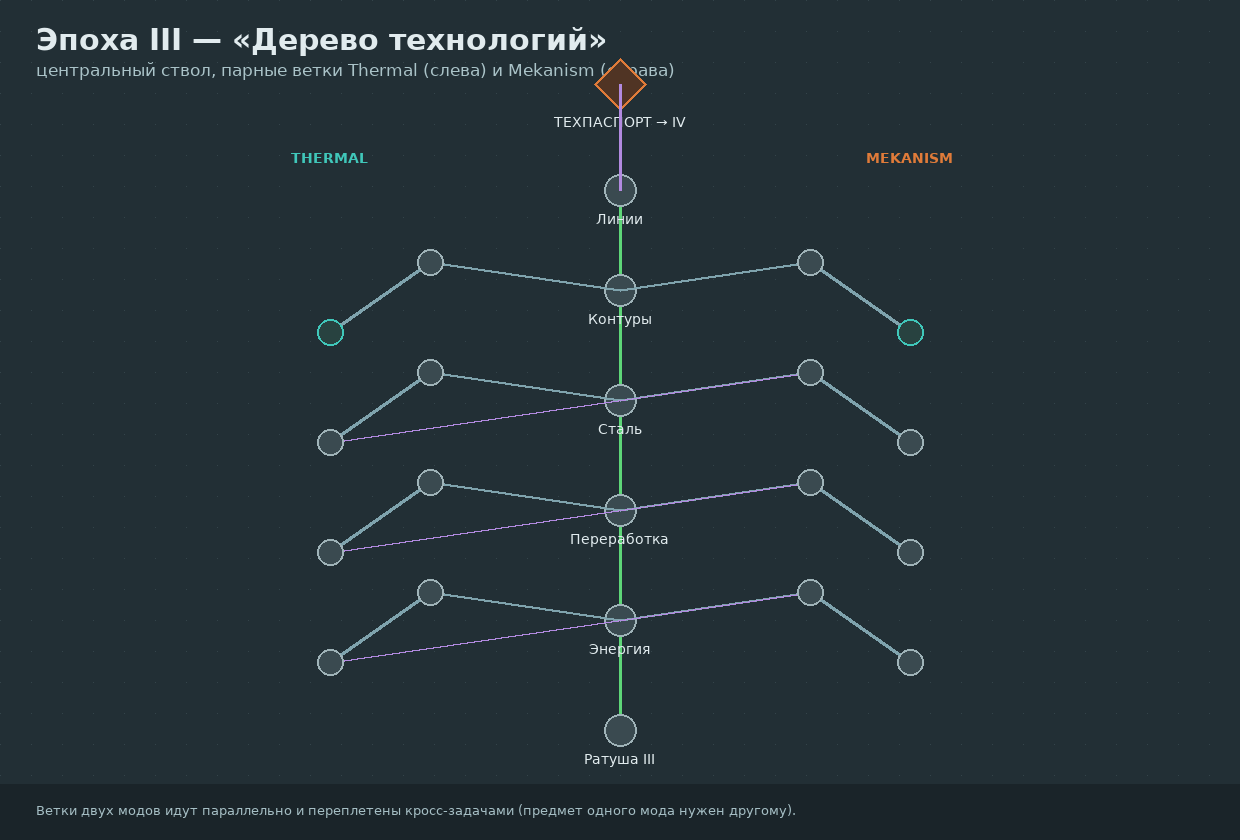
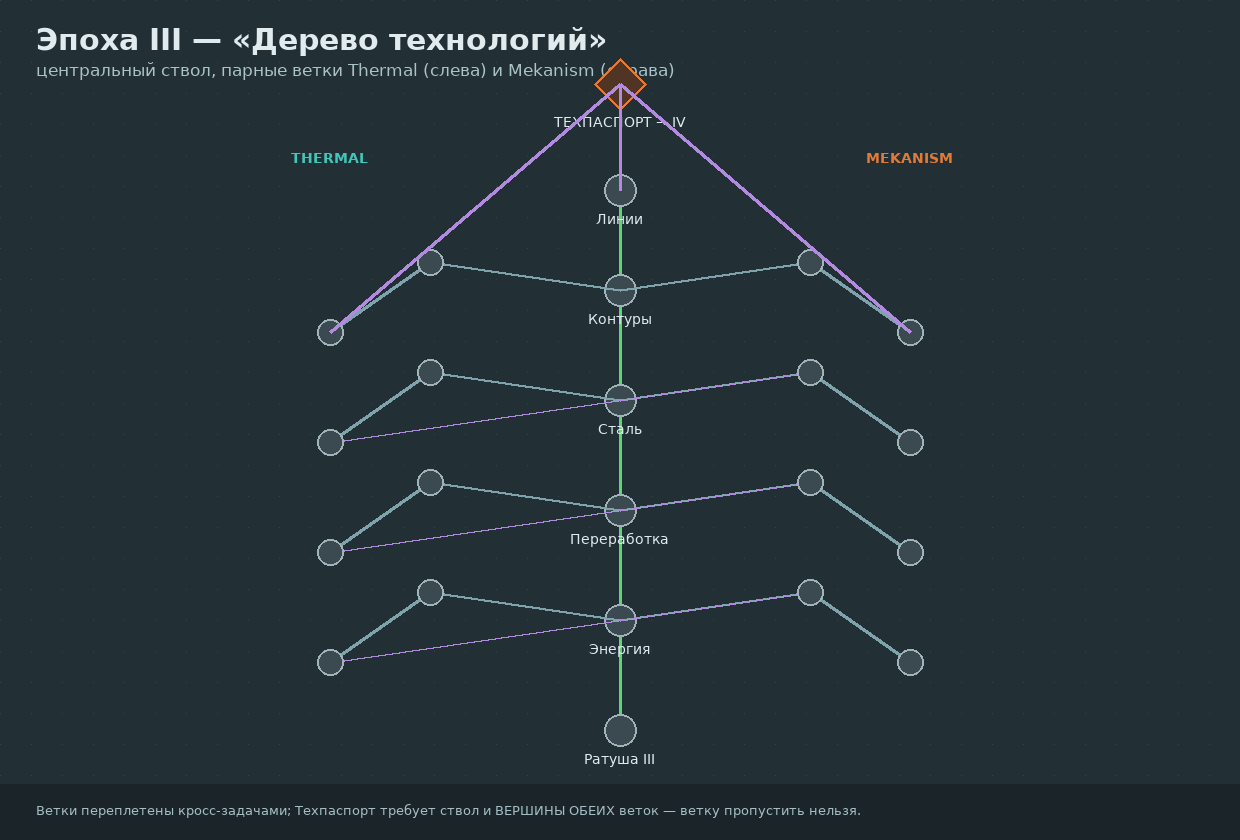
Аудит ворот эпох: пропустить обязательный квест нельзя
- tools/audit_quest_gates.py: проверка по SNBT, что ворота каждой эпохи
  транзитивно требуют все обязательные квесты (нынешние деревья — чисто,
  исключения только бонусы/контракты/справочник)
- концепция: убраны все «k из n» ворота (колесо 2/4, пентакль 3/5, сеть 3/4),
  в «Дереве технологий» ворота требуют вершины обеих веток модов
- схемы перегенерированы, в док. 09 добавлен раздел аудита

diff --git a/tools/audit_quest_gates.py b/tools/audit_quest_gates.py
@@ -1,0 +1,153 @@
+#!/usr/bin/env python3
+"""Аудит «нельзя пропустить»: проверяет, что ворота каждой эпохи (первые квесты
+следующей эпохи) транзитивно требуют ВСЕ обязательные квесты предыдущих эпох.
+
+Пропускаемыми считаются только: optional-квесты (бонусы), повторяемые
+(can_repeat — контракты) и главы целиком бонусные/справочные (70–74, 80).
+
+Использование: python3 tools/audit_quest_gates.py
+Код выхода 1 — найдены обязательные квесты, которые можно не выполнять.
+"""
+import re
+import sys
+from pathlib import Path
+
+CH = Path("config/ftbquests/quests/chapters")
+MAIN = ["00_prologue", "10_epoch_wood_water", "20_epoch_steam_logistics",
+        "30_epoch_industry", "40_epoch_magic", "50_epoch_network",
+        "60_epoch_cosmos"]
+SIDE = ["70_side_architects", "71_side_expeditions", "72_side_schools",
+        "73_side_engineering", "74_side_supply", "80_reference"]
+
+
+def split_objects(text, start):
+    """Объекты верхнего уровня массива quests (start — позиция '[')."""
+    objs, i, n = [], text.index("[", start), len(text)
+    depth = 0
+    in_str = False
+    buf = None
+    while i < n:
+        c = text[i]
+        if in_str:
+            if c == "\\":
+                i += 2
+                continue
+            if c == '"':
+                in_str = False
+        else:
+            if c == '"':
+                in_str = True
+            elif c == "{":
+                if depth == 0:
+                    buf = i
+                depth += 1
+            elif c == "}":
+                depth -= 1
+                if depth == 0 and buf is not None:
+                    objs.append(text[buf:i + 1])
+                    buf = None
+            elif c == "]" and depth == 0:
+                break
+        i += 1
+    return objs
+
+
+def parse_chapter(path):
+    text = path.read_text(encoding="utf-8")
+    qpos = text.index("quests: [")
+    quests = []
+    for obj in split_objects(text, qpos):
+        mid = re.search(r'\bid: "([0-9A-F]+)"', obj)
+        if not mid:
+            continue
+        mdep = re.search(r"dependencies: \[([^\]]*)\]", obj)
+        deps = re.findall(r'"([0-9A-F]+)"', mdep.group(1)) if mdep else []
+        mtitle = re.search(r'title: "([^"]*)"', obj)
+        quests.append({
+            "id": mid.group(1),
+            "title": mtitle.group(1) if mtitle else "",
+            "deps": deps,
+            "optional": bool(re.search(r"\boptional: true", obj)),
+            "repeatable": bool(re.search(r"\bcan_repeat: true", obj)),
+            "invisible": bool(re.search(r"\binvisible: true", obj)),
+        })
+    chid = re.search(r'\bid: "([0-9A-F]+)"\s*\n\torder_index', text)
+    return (chid.group(1) if chid else path.stem), quests
+
+
+def main():
+    quest = {}          # id -> dict(+chapter)
+    chapters = {}
+    for f in sorted(CH.glob("*.snbt")):
+        cid, qs = parse_chapter(f)
+        chapters[f.stem] = qs
+        for q in qs:
+            q["chapter"] = f.stem
+            quest[q["id"]] = q
+
+    def ancestors(ids):
+        seen, stack = set(), list(ids)
+        while stack:
+            cur = stack.pop()
+            if cur in seen or cur not in quest:
+                continue
+            seen.add(cur)
+            stack.extend(quest[cur]["deps"])
+        return seen
+
+    problems = 0
+    print("=== ВОРОТА ЭПОХ: можно ли перейти дальше, что-то пропустив ===\n")
+    for idx, name in enumerate(MAIN):
+        qs = chapters[name]
+        req = [q for q in qs if not q["optional"] and not q["repeatable"]]
+        bonus = [q for q in qs if q["optional"] or q["repeatable"]]
+        if idx + 1 < len(MAIN):
+            nxt = chapters[MAIN[idx + 1]]
+            gate = sorted({d for q in nxt for d in q["deps"]
+                           if d in quest and quest[d]["chapter"] == name})
+            gate_names = [f'«{quest[g]["title"]}»' for g in gate]
+            closure = ancestors(gate)
+            label = f"ворота → {MAIN[idx + 1]}: " + (", ".join(gate_names) or "НЕТ СВЯЗИ!")
+        else:
+            gate = sorted(q["id"] for q in req
+                          if not any(q["id"] in o["deps"] for o in quest.values()))
+            gate_names = [f'«{quest[g]["title"]}»' for g in gate]
+            closure = ancestors(gate)
+            label = "финал игры: " + ", ".join(gate_names)
+        missing = [q for q in req if q["id"] not in closure]
+        leaked = [quest[i] for i in closure
+                  if quest[i]["chapter"] in SIDE]
+        print(f"{name}: обязательных {len(req)}, бонусных {len(bonus)}")
+        print(f"  {label}")
+        if missing:
+            problems += 1
+            print(f"  ✗ МОЖНО ПРОПУСТИТЬ ({len(missing)}):")
+            for q in missing:
+                print(f"    - «{q['title']}» [{q['id']}]")
+        else:
+            print("  ✓ пропустить обязательный квест нельзя")
+        if leaked:
+            problems += 1
+            print(f"  ✗ ворота зависят от бонусных/справочных глав: "
+                  f"{[q['title'] for q in leaked]}")
+        print()
+
+    print("=== ПРЕДУПРЕЖДЕНИЯ ===")
+    warn = 0
+    for q in quest.values():
+        if q["optional"] or q["repeatable"]:
+            continue
+        for d in q["deps"]:
+            if d in quest and (quest[d]["optional"] or quest[d]["repeatable"]):
+                warn += 1
+                print(f"  ! обязательный «{q['title']}» зависит от бонусного "
+                      f"«{quest[d]['title']}»")
+    if not warn:
+        print("  нет: обязательные квесты не зависят от бонусных")
+    print()
+    print(f"ИТОГ: {'НАРУШЕНИЙ: ' + str(problems) if problems else 'нарушений нет — каждая эпоха требует все обязательные квесты'}")
+    return 1 if problems else 0
+
+
+if __name__ == "__main__":
+    sys.exit(main())

diff --git a/docs/09-quest-structure-concept.md b/docs/09-quest-structure-concept.md
@@ -23,8 +23,10 @@
 4. **Кросс-связи**: 2–4 на эпоху — задача ветки А требует результат ветки Б
    (фиолетовые линии на схемах). Они делают граф «живым», но не превращаются в обязательные
    ворота, чтобы не запирать игрока.
-5. **Ворота эпохи** честны: дальше нельзя, пока не закрыты ключевые ветки. Для «мягких»
-   мест используем **k из n** (например, 3 школы из 5, 2 линии из 4) — выбор без потери темпа.
+5. **Ворота эпохи строгие** (решение от 2026-10-16): дальше нельзя, пока не выполнен
+   **каждый обязательный квест** эпохи. Никаких «k из n» для основного контента: выбор —
+   только в *порядке* прохождения веток, не в их пропускаемости. Пропускать можно
+   лишь то, что помечено бонусом (иконка поменьше, `optional`), секреты и пасхалки.
 6. **Секретные квесты** — вне графа: без линий (`hide_dependency_lines` +
    `hide_dependent_lines`), невидимые до выполнения (`invisible: true` в FTB — квест
    появляется в книге только когда выполнен), в углах карты. Намёки — в описаниях
@@ -53,7 +55,7 @@
 ### Эпоха I — «Водяное колесо» (`01-epoch1-wheel.png`)
 Кольцо механизмов Create вокруг ступицы «Вода/Дерево»: две дуги кольца проходятся
 параллельно (можно идти по часовой или против), наружу — 4 «зуба»-линии автоматизации
-(пиление, дробление, веер, склад), к воротам «Мастерская» нужны обе дуги + 2 зуба из 4.
+(пиление, дробление, веер, склад); ворота «Мастерская» требуют обе дуги и все 4 зуба.
 *Кольцо = колесо: форма буквально повторяет главный механизм эпохи.*
 
 ### Эпоха II — «Железнодорожная магистраль» (`02-epoch2-railway.png`)
@@ -67,21 +69,22 @@
 Центральный ствол индустрии (энергия → переработка → сталь → контуры → линии).
 Слева парные ветки **Thermal**, справа — **Mekanism** (как дерево технологий на
 скриншотах). 3 кросс-связи между модами: продукт одной ветки нужен соседней.
-Ворота — Технический паспорт на вершине ствола.
+Ворота — Технический паспорт — требуют вершину ствола **и вершины обеих веток**:
+проскочить по стволу, игнорируя моды, нельзя.
 *Классическое техно-дерево — самая «сборочная» эпоха и выглядит соответствующе.*
 
 ### Эпоха IV — «Пентакль школ» (`04-epoch4-pentacle.png`)
 Пять школ магии по вершинам пентаграммы: Ars Nouveau, Botania, Blood Magic, Eidolon,
 Алхимия города. Все открыты сразу, порядок свободный; у каждой — внешняя цепочка
 углубления. Хорды пентаграммы — кросс-задачи между школами. В центре — Ритуал эпохи:
-ворота при **3 школах из 5**.
+ворота — только когда закрыты **все 5 школ**.
 *Магия = свобода и мистика формы; это самая нелинейная эпоха.*
 
 ### Эпоха V — «Созвездие сети» (`05-epoch5-network.png`)
 В центре — ядро ME-сети. Вокруг 4 кластера-спутника: **Хранение**, **Автокрафт**,
 **Шаблоны**, **Механизмы**; у каждого свои звёздочки-задачи. Кластеры соединены
 перемычками (кросс-условия: ячейки нужны автокрафту, шаблоны — механизмам).
-Ворота «Ядро автоматики» — ядро + 3 кластера из 4.
+Ворота «Ядро автоматики» — ядро и **все 4 кластера**.
 *Структура повторяет топологию самой AE2-сети: хаб и терминалы.*
 
 ### Эпоха VI — «Спираль к звезде» (`06-epoch6-spiral.png`)
@@ -127,9 +130,37 @@
 - Условия колонии через MineColonies API — список построек колонии (десятки объектов),
   это дешевле одного чанка тиков.
 
+## Аудит «нельзя пропустить» (2026-10-16)
+
+### Нынешние деревья в игре — чисто
+
+Прогон `tools/audit_quest_gates.py` по сгенерированным главам: ворота каждой эпохи
+(первые квесты следующей) транзитивно требуют **все** обязательные квесты. Исключения —
+только разрешённые категории:
+
+- 5 опциональных квестов внутри эпох («Курьерская служба запущена», «Железнодорожная
+  логистика», «Магия и механизмы объединены», «Ритуал», «Applied Mekanistics»);
+- побочные главы 70–74 целиком (бонусы/контракты; поставки — повторяемые);
+- глава 80 — справочник.
+
+### Схемы-концепция — найдено и исправлено 4 дыры
+
+| Эпоха | Была дыра | Исправление |
+|-------|-----------|-------------|
+| I «Колесо» | ворота принимали 2 зуба из 4 — две линии пропускались | ворота требуют все 4 зуба |
+| III «Дерево» | ворота только на стволе — обе ветки модов пропускались целиком | Техпаспорт требует вершины Thermal и Mekanism |
+| IV «Пентакль» | ритуал при 3 школах из 5 — две школы пропускались | ритуал требует все 5 школ |
+| V «Созвездие» | ворота 3 кластера из 4 | ворота требуют все 4 кластера |
+
+Схемы перегенерированы. Пролог (веер: все 4 луча в Хартию), Эпоха II (все депо —
+к финальной станции) и Эпоха VI (орбиты по цепочке) аудит проходили и до правок.
+
+Правило на будущее: после любой правки генератора — `python3 tools/audit_quest_gates.py`,
+код выхода 0 обязателен.
+
 ## Вопросы на согласование
 
 1. Какие структуры эпох нравятся/не нравятся? (можно миксовать: например, III оставить деревом, IV — пентаклем, остальные попроще)
-2. Ворота делать строгими (все ветки) или мягкими (k из n) — и где именно мягкость уместна?
+2. ~~Ворота строгие или мягкие (k из n)?~~ — **решено: строгие, все обязательные квесты** (аудит выше).
 3. Секретов: 12 штук достаточно? Какие убрать/добавить?
 4. Листья-бонусы: награды предметами или опытом/лутом, как сокровищницы?
